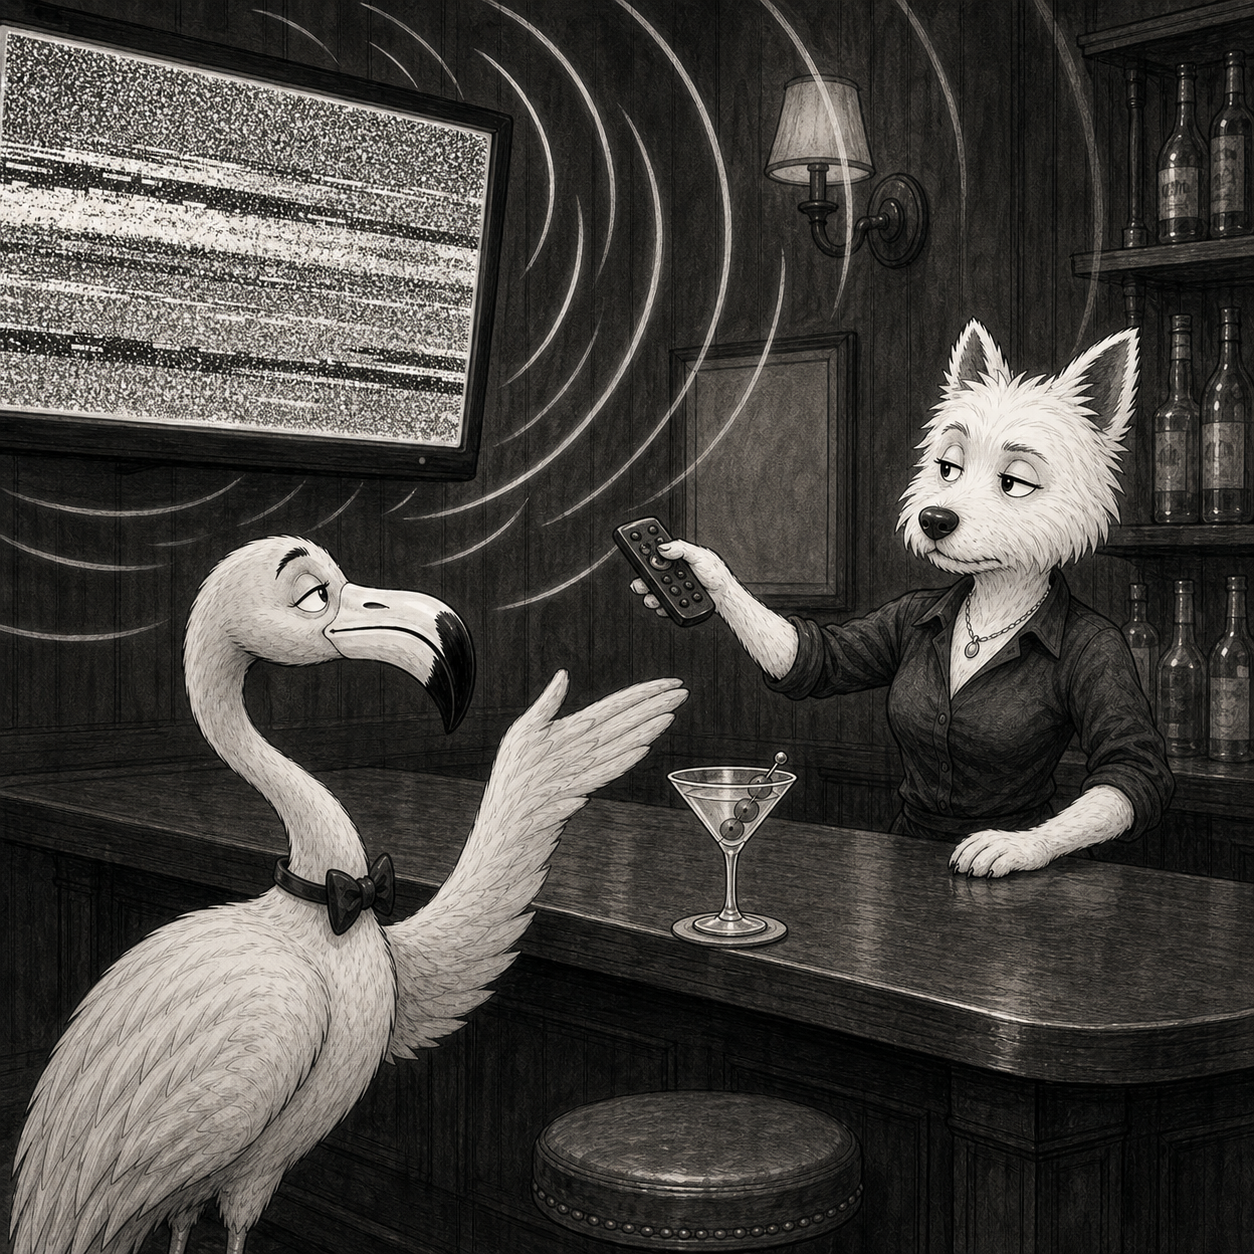
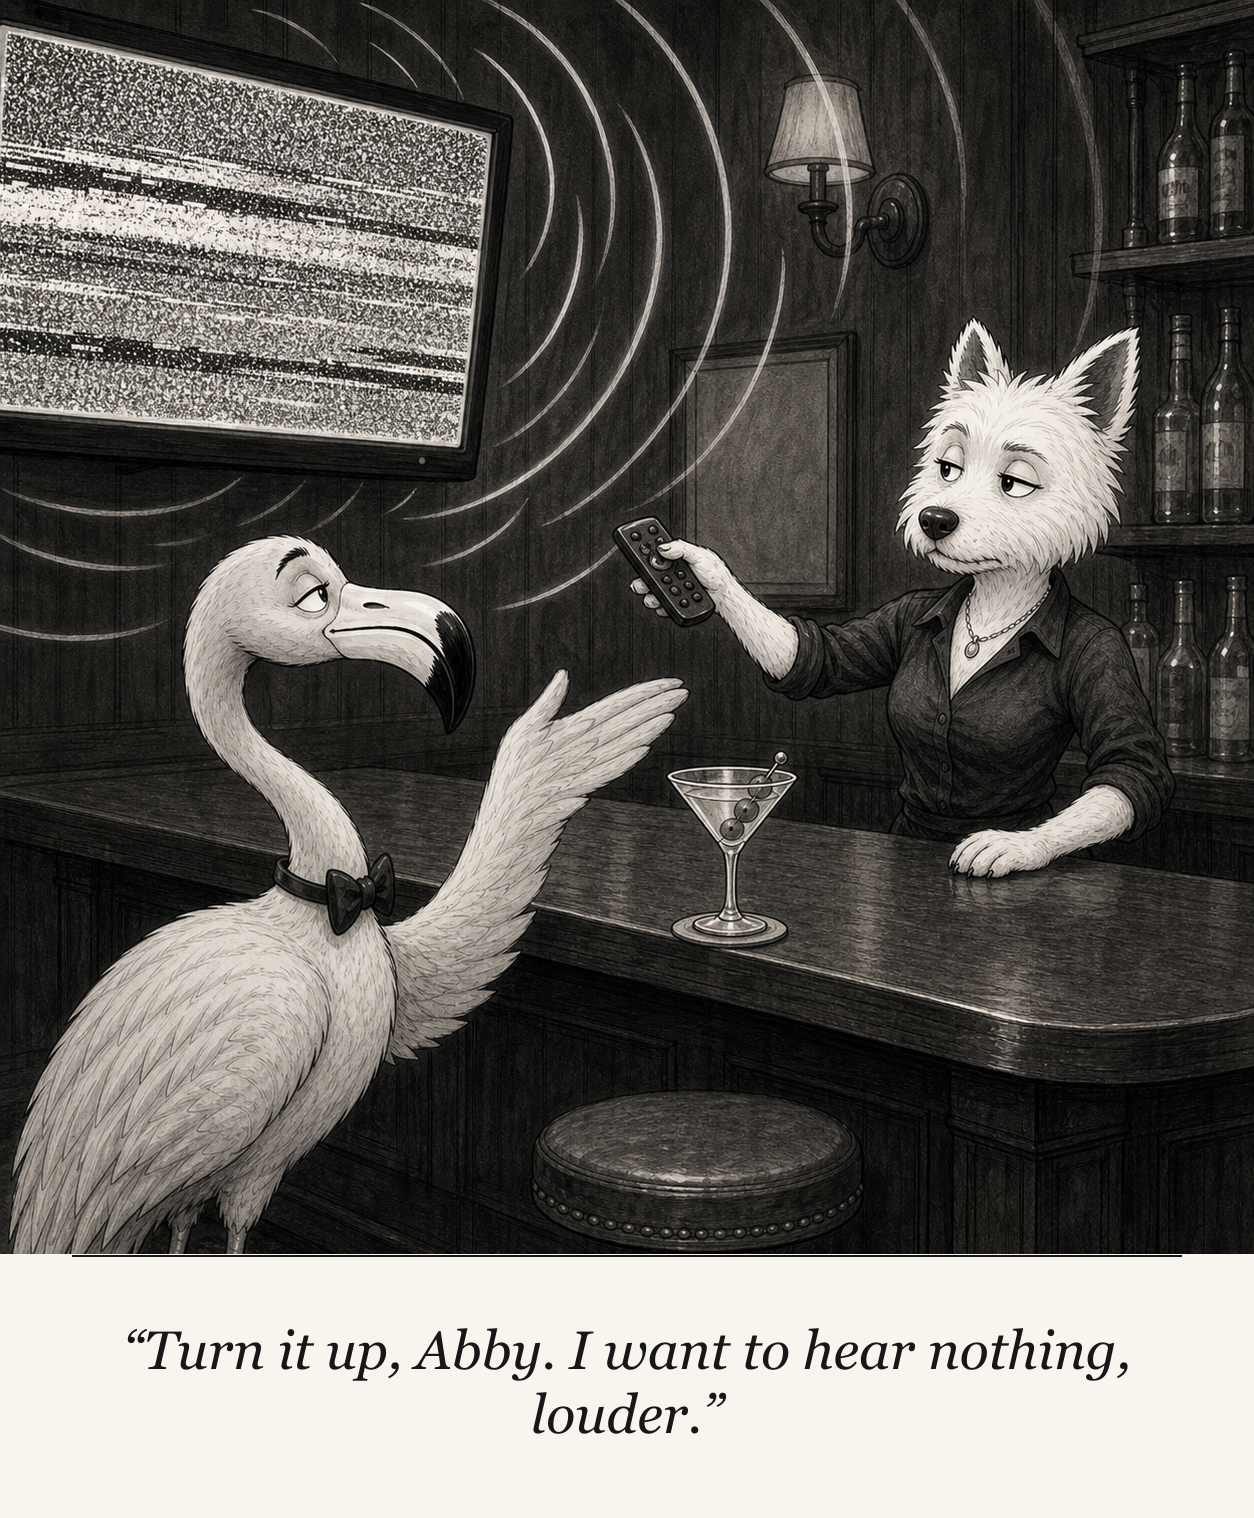
Add dialogue to every cartoon

diff --git a/site/app/backroom/LightTable.tsx b/site/app/backroom/LightTable.tsx
@@ -100,9 +100,8 @@ export default function LightTable({ day }: { day: OptionDay }) {
                   />
                 </a>
                 <figcaption className="br-proof-cap">
-                  {option.title && <strong>{option.title}</strong>}
-                  {option.title && option.caption ? " — " : ""}
-                  {option.caption ?? (option.title ? "" : "No suggested caption filed.")}
+                  {option.title ? <strong>{option.title}</strong> : "Untitled proof"}
+                  {option.caption && <span className="sr-only"> — {option.caption}</span>}
                 </figcaption>
               </figure>
               <p className="br-proof-tools">

diff --git a/site/app/(paper)/variant-a.css b/site/app/(paper)/variant-a.css
@@ -413,18 +413,6 @@
   height: auto;
 }
 
-/* The caption is the joke — set as the subhead. Pure black on
-   paper white/warm: comfortably WCAG AA. */
-.variant-a .va-caption {
-  font-style: italic;
-  font-size: var(--scale-2);
-  line-height: calc(var(--baseline) * 1.25);
-  text-align: center;
-  text-wrap: balance;
-  max-width: 40em;
-  margin: calc(var(--baseline) / 2) auto 0;
-}
-
 /* The deck: one italic serif line under the headline, built from
    the filing tags and edition number, the way a real deck reads. */
 .variant-a .va-deck {

diff --git a/site/app/cartoon/[slug]/page.tsx b/site/app/cartoon/[slug]/page.tsx
@@ -63,7 +63,7 @@ export default async function CartoonPermalink({ params }: { params: Promise<{ s
               priority
               className="permalink-image"
             />
-            <figcaption className="permalink-caption">{cartoon.caption}</figcaption>
+            <figcaption className="sr-only">{cartoon.caption}</figcaption>
           </figure>
           {cartoon.tags.length > 0 && (
             <p className="permalink-tags">

diff --git a/site/app/cartoon/[slug]/permalink.css b/site/app/cartoon/[slug]/permalink.css
@@ -88,15 +88,6 @@
   background: var(--paper-cream);
 }
 
-.permalink-caption {
-  font-style: italic;
-  text-align: center;
-  font-size: 1.2rem;
-  line-height: 1.45;
-  margin-top: 1.1rem;
-  padding: 0 0.5rem;
-}
-
 .permalink-tags {
   text-align: center;
   font-size: 0.8rem;
@@ -208,7 +199,4 @@
     background: none;
   }
 
-  .permalink-caption {
-    font-size: 13pt;
-  }
 }

diff --git a/site/app/(paper)/page.tsx b/site/app/(paper)/page.tsx
@@ -99,7 +99,7 @@ export default function FrontPage() {
                 className="va-img"
               />
             </TransitionLink>
-            <figcaption className="va-caption">{latest.caption}</figcaption>
+            <figcaption className="sr-only">{latest.caption}</figcaption>
           </figure>
           {older && (
             <p className="va-prev va-onum">

diff --git a/docs/PUBLISHING.md b/docs/PUBLISHING.md
@@ -15,14 +15,14 @@ Audience: the technical maintainer. The repo's filesystem is the CMS — publish
 
 2. **Name the folder correctly.** The pattern is `YYYY-MM-DD-slug`. Slug rules: lowercase, hyphens, 2–4 words. The full folder name is the permalink (`/cartoon/2026-08-13-the-quarterly-call`), so make it worth reading. The date prefix must match the `date` field inside `meta.json` — the build checks.
 
-3. **Add the artwork** as `cartoon.png` inside the folder. Black and white, at least 1200px on the long side, PNG. Portrait (4:5) and square both work — the layouts handle either.
+3. **Add the finished cartoon** as `cartoon.png` inside the folder. Create a black-and-white square illustration at least 1200px wide, finalize the `caption` in `meta.json`, then run `cd site && npm run dialogue`. That appends the exact words in a magazine-style field below the art. The finished portrait PNG and the JSON caption must match; square art without its dialogue is blocked by the build.
 
 4. **Fill in `meta.json`.** The schema, one line per field:
 
    ```json
    {
      "title": "The Quarterly Call",     // required non-empty string — the headline
-     "caption": "…",                    // required non-empty string — the joke, exactly as it should print
+     "caption": "…",                    // required non-empty string — exact words printed in the PNG
      "date": "2026-08-13",              // ISO YYYY-MM-DD; must equal the folder's date prefix
      "tags": ["markets", "clients"],    // 0–5 entries, all lowercase
      "edition": 7                       // unique positive integer; check the newest folder and add one
@@ -41,7 +41,7 @@ Audience: the technical maintainer. The repo's filesystem is the CMS — publish
 
 ## Troubleshooting
 
-The build validates every cartoon and **fails loudly rather than shipping bad data**. Every error message names the offending folder. There are three:
+The build validates every cartoon and **fails loudly rather than shipping bad data**. Every error message names the offending folder. Common errors are:
 
 1. **`Cartoon validation failed in /cartoons/<folder>: "<field>" is required / must be …`**
    A `meta.json` problem: the file is missing or not valid JSON, `title` or `caption` is empty, `tags` isn't 0–5 lowercase strings, `edition` isn't a positive integer, or `cartoon.png` is absent. Fix the named field in the named folder and push again.
@@ -52,12 +52,15 @@ The build validates every cartoon and **fails loudly rather than shipping bad da
 3. **`Cartoon validation failed in /cartoons/<folder>: "edition" N is already used by /cartoons/<other-folder>`**
    Two cartoons claim the same edition number. Editions are unique across the whole archive (they're the sort tiebreaker and the "No. N" folio). Give the new cartoon the next unused number.
 
+4. **`prebuild: dialogue is not embedded in cartoons/<folder>/cartoon.png`**
+   The PNG is still the square, text-free source panel or is not in the finished cartoon format. Confirm that `meta.json` contains the final wording, then run `cd site && npm run dialogue`, commit the finished portrait PNG, and build again. The command is safe to rerun after a caption edit.
+
 ## No-terminal option
 
 The identical flow, entirely in the browser — no git installed:
 
 1. On GitHub, open the repo and press **Add file → Upload files**.
-2. In the file-name box, type the new folder name followed by a slash — e.g. `cartoons/2026-08-13-the-quarterly-call/` — then drag `cartoon.png` into the upload area. GitHub creates the folder.
+2. In the file-name box, type the new folder name followed by a slash — e.g. `cartoons/2026-08-13-the-quarterly-call/` — then drag in a finished portrait `cartoon.png` that already contains the exact dialogue below the illustration. GitHub creates the folder.
 3. Commit the upload (green button at the bottom).
 4. Press **Add file → Create new file**, name it `cartoons/2026-08-13-the-quarterly-call/meta.json`, and paste the filled-in schema from step 4 above (without the comments). Commit.
 5. Vercel rebuilds on its own. If the build fails, the error in Vercel's dashboard names the folder and field — edit `meta.json` directly in the browser (open the file → pencil icon) and commit the fix.

diff --git a/canon/creation/WORKFLOW.md b/canon/creation/WORKFLOW.md
@@ -11,8 +11,8 @@ Purpose: the repeatable path from "new topic" to "published cartoon," per the fo
 3. **Use the characters' personalities to decide who speaks** (see `/canon/personality/PERSONALITIES.md`). Drew names the absurdity; Mango believes his way into it; Abby closes an argument, rarely.
 4. **Write 3–5 caption options.** Short, dry, underplayed; the caption deepens the visual gag rather than explaining it (see `/canon/comedy/COMEDY-BIBLE.md`).
 5. **Choose the strongest caption.** Read the boundaries list before committing.
-6. **Create an image prompt that preserves character continuity and includes the caption.** Assemble it from the template below — canonical description blocks verbatim, never paraphrased.
-7. **Maintain a catalog by date.** In this repo, publishing IS cataloging: each cartoon lives in `/cartoons/YYYY-MM-DD-slug/` with its `meta.json` (date, edition, tags), and the site renders the catalog/dating line below the artwork — displayed below the cartoon but not part of the cartoon.
+6. **Create the illustrated panel, then typeset the exact dialogue into it.** Generate the character scene without model-rendered words, then append the print-ready caption deterministically with `cd site && npm run dialogue`. This preserves character continuity and prevents misspellings.
+7. **Maintain a catalog by date.** In this repo, publishing IS cataloging: each cartoon lives in `/cartoons/YYYY-MM-DD-slug/` with its `meta.json` (date, edition, tags). The JSON caption must exactly match the dialogue printed in the artwork; the site supplies titles, dates, and catalog lines outside the image.
 
 ## Image-prompt template
 
@@ -22,7 +22,7 @@ Purpose: the repeatable path from "new topic" to "published cartoon," per the fo
 2. Setting block from `/canon/settings/SETTINGS-BIBLE.md` — inside the bar: wooden paneling, stools, coasters, framed Americana (walls not crowded), chalkboard with a special, small TV showing news or sports, bar name reversed in the window.
 3. Character block(s), verbatim from `/canon/characters/*/DESCRIPTION.md`, for whoever appears.
 4. The scene: one sentence placing the joke.
-5. The caption, exactly as it will print.
+5. The caption, exactly as it will print, supplied to the deterministic dialogue pass rather than rendered by the image model.
 
 ## Delivery — the exact file contract
 
@@ -41,8 +41,8 @@ When the founder asks for a cartoon ("I want a cartoon about X"), produce **thre
 Rules for the generator:
 
 - Three distinct takes on the same request — different visual scenes or different speakers, not three crops of one image.
-- Each PNG is the panel artwork only: no caption text baked in, no date, no watermark. The site sets the caption below the panel.
-- Each JSON's `caption` is print-ready (the founder can edit it before publishing, but it should not need editing).
+- Each PNG is a finished cartoon: square illustrated panel plus its exact dialogue typeset in the warm-white caption field below. No title, date, proof label, or watermark is baked in.
+- Each JSON's `caption` is print-ready and must match the dialogue in the PNG exactly. If the wording changes, edit the JSON and rerun `npm run dialogue`; the script preserves the square art region and rebuilds only the dialogue field.
 - `tags`: up to five lowercase subjects ("markets", "retirement", "media"…).
 - **Never create or modify `selected.json`** — the site writes it when the founder publishes.
 - Never write into `/cartoons/` directly; publishing is the founder's decision, made in the Back Room.

diff --git a/canon/style/STYLE-BIBLE.md b/canon/style/STYLE-BIBLE.md
@@ -16,11 +16,11 @@ Strictly black and white. Ink wash (grayscale tone) is the shading method — th
 
 ## Panel Format
 
-Single frame. Most cartoons are set inside The Swinging Door bar (see `/canon/settings/SETTINGS-BIBLE.md`). Border style and approved aspect ratios pending the style pass; the site handles portrait (4:5) and square today.
+Single frame. Most cartoons are set inside The Swinging Door bar (see `/canon/settings/SETTINGS-BIBLE.md`). The production illustration is square; the deterministic dialogue field below it makes the finished PNG portrait. Border style remains pending the style pass.
 
 ## Caption Convention
 
-Every cartoon has a caption (see the Comedy Bible's caption rules). Working convention: the caption is set below the panel, magazine-style. Each published cartoon also carries a **catalog and dating line displayed below the cartoon but not part of the cartoon** — in this repo that line is generated by the site from `meta.json` (date + edition number), so the artwork never contains it.
+Every cartoon has dialogue (see the Comedy Bible's caption rules). Working convention: the exact dialogue is typeset into a warm-white field below the illustrated panel, magazine-style, and is part of the finished PNG. It must match the `caption` in the cartoon's JSON exactly. Each published cartoon also carries a **catalog and dating line displayed below the cartoon but not part of the cartoon** — in this repo that line is generated by the site from `meta.json` (date + edition number), so the PNG never contains the title, date, edition, proof label, or catalog line.
 
 ## Signature / Watermark
 

diff --git a/cartoons/SAMPLE-ART.md b/cartoons/SAMPLE-ART.md
@@ -3,8 +3,8 @@
 The dated cartoons are polished sample panels used to exercise the real
 publishing, archive, print, social-card, and Back Room flows. They follow the
 series canon, but remain subject to the founder's final character and ink
-approval. Captions, titles, dates, and edition numbers are typeset by the site;
-they are intentionally absent from the artwork itself.
+approval. Dialogue is typeset into each finished PNG; titles, dates, edition
+numbers, proof labels, and catalog lines remain site-native.
 
 ## Art system
 
@@ -12,9 +12,11 @@ they are intentionally absent from the artwork itself.
 - Confident varied line, economical interior detail, and readable silhouettes.
 - Drew keeps his bowtie and three-olive martini; Mango keeps his jacket, lapel
   pin, and old fashioned; Abby remains behind the bar and appears sparingly.
-- No baked caption, title, date, catalog line, proof label, watermark, or UI
-  texture. The public paper and Back Room supply their own framing and effects.
+- Each panel ends with a warm-white dialogue field using the exact caption from
+  its JSON metadata. No title, date, catalog line, proof label, watermark, or UI
+  texture is baked in. The public paper and Back Room supply their framing.
 - The retired clip-art and blank-proof file hashes are blocked by the prebuild.
+- Square art without embedded dialogue is also blocked by the prebuild.
 
 ## Current editions
 

diff --git a/README.md b/README.md
@@ -30,7 +30,7 @@ Setup (two env vars) in [docs/SETUP.md](docs/SETUP.md).
 
 **Built and verified:**
 - Repository structure, canon documents (filled from the founder's series bible: cast, settings, comedy rules, boundaries, creation workflow), and the publishing template with a 90-second how-to.
-- Seven fully illustrated, canon-informed sample cartoons with series-consistent captions, nine distinct illustrated Back Room proofs, and identity/full-body model sheets for Drew, Mango, and Abby. See the [sample artwork record](cartoons/SAMPLE-ART.md).
+- Seven fully illustrated, canon-informed sample cartoons and nine distinct illustrated Back Room proofs, all with their exact dialogue typeset into the finished cartoon, plus identity/full-body model sheets for Drew, Mango, and Abby. See the [sample artwork record](cartoons/SAMPLE-ART.md).
 - The full static site: validated data layer (bad `meta.json` fails the build naming the folder), the broadsheet front page and archive, print-ready permalinks, view-transition page turns, `prefers-reduced-motion` support throughout — plus the login-gated Back Room publishing flow.
 - Zero-config Vercel deploys via the root `vercel.json`; every push to the default branch deploys automatically.
 

diff --git a/docs/SETUP.md b/docs/SETUP.md
@@ -30,6 +30,12 @@ The social card is deterministic rather than AI-typeset. Prebuild refreshes it
 from the latest public cartoon; `npm run brand-assets` is also available when
 working on the brand treatment by itself.
 
+Finished cartoons carry their dialogue inside the PNG. Start from square,
+text-free illustrated panels whose JSON captions are final, then run
+`npm run dialogue`. The script appends an exact warm-white dialogue field. It
+can safely rerun a finished cartoon after a caption edit: it keeps the untouched
+square art region and rebuilds the dialogue field instead of stacking strips.
+
 ## Vercel: zero-config deploys (already wired)
 
 The repo root ships a `vercel.json` with a `builds` entry pointing at `site/package.json`. That lets Vercel build the Next.js app from the `/site` subdirectory **with no dashboard settings at all** — import the repo, deploy, done. Every push then deploys automatically (production from the default branch, previews for other branches). The full repo is present during the build, so the `/cartoons` and `/canon` reads just work.

diff --git a/canon/creation/SAMPLE-ART-PROMPTS.md b/canon/creation/SAMPLE-ART-PROMPTS.md
@@ -15,9 +15,11 @@ that remains clear at a 220-pixel thumbnail. Preserve the working Drew, Mango,
 and Abby identities from the referenced model sheets. Suggest The Swinging Door
 with only the bar details needed for the gag. <!-- BRAND: replace when final -->
 
-Do not render captions, titles, dates, catalog lines, proof labels, speech
-balloons, signatures, watermarks, outer frames, readable signage, brand marks,
-or color. Avoid clip art, flat vector geometry, mascots, 3D, photorealism,
+Do not ask the image model to render captions, titles, dates, catalog lines,
+proof labels, speech balloons, signatures, watermarks, outer frames, readable
+signage, brand marks, or color. Append the exact caption afterward with
+`npm run dialogue` so spelling and punctuation remain deterministic. Avoid clip
+art, flat vector geometry, mascots, 3D, photorealism,
 anime, childish proportions, cloudy noise fills, muddy all-over wash, dense
 crosshatching, clutter, duplicated characters, or malformed anatomy.
 
